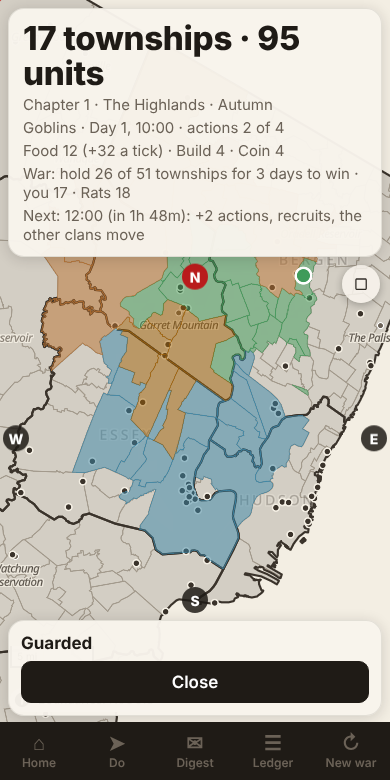
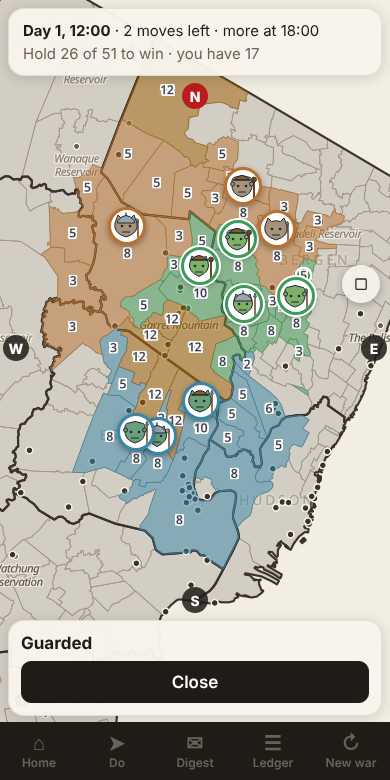
Redesign (18): from a ledger to a cast; R1 patch: faces on the map, numbers off the names, short header, less text, a rival to face in the first minute
Claude-Session: https://claude.ai/code/session_01VbHYcpJJCeFC23cU6EtBJy

diff --git a/js/goblin/ui/goblin.js b/js/goblin/ui/goblin.js
@@ -46,6 +46,7 @@ export function initGoblin(ctx) {
   let G = null;            // { board, content } once loaded
   let save = null;         // { v, world, lastReal, events, seenTick }
   let sel = null;          // the township you have picked to send units from
+  let pins = [];           // portrait markers for captains on the map
   let charge = null;       // a quiz charge earned and not yet used: { front, beat }
   let timer = 0, bound = false, layersReady = false, mode = 'idle', pendingHome = null;
 
@@ -97,12 +98,14 @@ export function initGoblin(ctx) {
     map.addSource('gobconvoy', { type: 'geojson', data: { type: 'FeatureCollection', features: [] } });
     map.addLayer({ id: 'gob-convoy', type: 'circle', source: 'gobconvoy', layout: { visibility: 'none' }, paint: { 'circle-radius': 7, 'circle-color': ['match', ['get', 'clan'], 'goblins', COLOUR[1], 'rats', COLOUR[2], 'toads', COLOUR[3], 'gnomes', COLOUR[4], '#555'], 'circle-stroke-width': 2.5, 'circle-stroke-color': '#ffffff' } });
     map.addSource('gobforce', { type: 'geojson', data: { type: 'FeatureCollection', features: [] } });
-    map.addLayer({ id: 'gob-force', type: 'symbol', source: 'gobforce', layout: { visibility: 'none', 'text-field': ['format', ['get', 'n'], { 'font-scale': 0.62 }, '\n', {}, ['get', 'f'], { 'font-scale': 1.15 }], 'text-font': ['Noto Sans Medium'], 'text-size': 13, 'text-line-height': 1.0, 'text-allow-overlap': true, 'text-ignore-placement': true },
-      paint: { 'text-color': '#111827', 'text-halo-color': '#ffffff', 'text-halo-width': 2 } });
+    map.addLayer({ id: 'gob-name', type: 'symbol', source: 'gobforce', minzoom: 10.4, layout: { visibility: 'none', 'text-field': ['get', 'n'], 'text-font': ['Noto Sans Medium'], 'text-size': 11, 'text-offset': [0, -1.5], 'text-allow-overlap': false, 'text-optional': true },
+      paint: { 'text-color': '#374151', 'text-halo-color': '#ffffff', 'text-halo-width': 1.6 } });
+    map.addLayer({ id: 'gob-force', type: 'symbol', source: 'gobforce', minzoom: 9.2, layout: { visibility: 'none', 'text-field': ['get', 'f'], 'text-font': ['Noto Sans Medium'], 'text-size': ['interpolate', ['linear'], ['zoom'], 9.2, 12, 12, 18], 'text-allow-overlap': true, 'text-ignore-placement': true },
+      paint: { 'text-color': '#111827', 'text-halo-color': '#ffffff', 'text-halo-width': 2.4 } });
   }
   const hiddenLabels = new Map();
   const showLayers = (on) => {
-    for (const id of ['gob-fill', 'gob-fog', 'gob-target', 'gob-line', 'gob-force', 'gob-convoy']) if (map.getLayer(id)) map.setLayoutProperty(id, 'visibility', on ? 'visible' : 'none');
+    for (const id of ['gob-fill', 'gob-fog', 'gob-target', 'gob-line', 'gob-force', 'gob-name', 'gob-convoy']) if (map.getLayer(id)) map.setLayoutProperty(id, 'visibility', on ? 'visible' : 'none');
     // the township names move into the force labels, so the map's own names step aside while the war is on
     for (const id of MUNI_LABEL_IDS) {
       if (!map.getLayer(id)) continue;
@@ -124,10 +127,21 @@ export function initGoblin(ctx) {
       const L = lv.get(id) || 'unknown';
       const gt = sel && nbs.has(id) ? (T.owner === ME ? 2 : T.owner ? 1 : 0) : 0;
       map.setFeatureState({ source: 'munis', id: m.id }, { gc: L === 'unknown' ? 0 : NO[T.owner] || 0, gf: L === 'unknown' ? 1 : 0, gs: sel === id ? 1 : 0, gt, gr: raidTargets.has(id) ? 1 : 0 });
-      const label = L === 'unknown' ? { n: '', f: '' } : L === 'rumoured' ? { n: m.n, f: '?' } : L === 'familiar' ? { n: (T.captain ? '★ ' : '') + m.n, f: forceWord(T.force, fw()) } : { n: (T.captain ? '★ ' : '') + m.n, f: String(T.force) };
+      const label = L === 'unknown' ? { n: '', f: '' } : L === 'rumoured' ? { n: m.n, f: '?' } : L === 'familiar' ? { n: m.n, f: forceWord(T.force, fw()) } : { n: m.n, f: String(T.force) };
       feats.push({ type: 'Feature', properties: label, geometry: { type: 'Point', coordinates: m.pt } });
     }
     map.getSource('gobforce').setData({ type: 'FeatureCollection', features: feats });
+    // faces on the map (redesign R1): every captain you can see is a portrait pin on their township; tapping it opens the township
+    for (const mk of pins) mk.remove(); pins = [];
+    for (const id of Object.keys(world.towns)) {
+      const T = world.towns[id], c = T.captain && world.chars[T.captain], m = muniOf(id);
+      if (!c || !m || (c.clan !== ME && rank(lv.get(id) || 'unknown') < rank('familiar'))) continue;
+      const el = document.createElement('button');
+      el.className = 'gobpin' + (c.clan === ME ? ' mine' : ''); el.style.borderColor = COLOUR[NO[c.clan]] || '#555'; el.setAttribute('aria-label', c.name);
+      el.innerHTML = portrait(c, world.clans[c.clan].kind, null, 30);
+      el.addEventListener('click', (e) => { e.stopPropagation(); if (mode === 'play') { sel = null; paint(); townCard(id); } });
+      pins.push(new maplibregl.Marker({ element: el, anchor: 'bottom', offset: [0, -8] }).setLngLat(m.pt).addTo(map));
+    }
     // convoys: moved only when the tick changes, because their place is worked out from it (D114); a rival's is seen only through a township you know a little
     const dots = [];
     for (const c of (world.convoys || [])) {
@@ -191,12 +205,10 @@ export function initGoblin(ctx) {
     const units = mine.reduce((n, t) => n + t.force, 0);
     const fr = openFronts(world, ME).length;
     const nx = nextMajor();
-    ctx.hud(`<div class="town">${mine.length} townships · ${units} units${fr ? ` · ${fr} front${fr === 1 ? '' : 's'}` : ''}</div>
-      <div class="meta">${regionLine()}</div>
-      <div class="meta">Goblins · ${clock()} · actions ${world.clans[ME].ap} of ${K6.apCap}</div>
-      ${resLine()}
-      <div class="meta">${warLine()}</div>
-      <div class="meta">${nx ? `Next: ${nx.hour} (in ${nx.left}): +${K6.apPerMajor} actions, recruits, the other clans move` : ''}</div>`);
+    const p = progress(world, ME), me = world.clans[ME];
+    const short = ecoActive(me) && me.short > 0 ? '<div class="meta warnline">Short of Food.</div>' : '';
+    ctx.hud(`<div class="gobhud"><b>${clock()}</b> · ${me.ap} move${me.ap === 1 ? '' : 's'} left${nx ? ` · more at ${nx.hour}` : ''}</div>
+      <div class="meta">${world.war && world.war.over ? warLine() : `Hold ${p.need} of ${p.total} to win · you have ${p.held}${p.hoursLeft != null ? ` · holding: ${Math.ceil(p.hoursLeft / 24)}d to go` : ''}`}${fr ? ` · ${fr} front${fr === 1 ? '' : 's'} open` : ''}</div>${short}`);
   }
   const panel = (html) => ctx.sheet(html);
   const closeBtn = '<button class="primary" data-g="close">Close</button>';
@@ -282,13 +294,29 @@ export function initGoblin(ctx) {
       <div class="gobrow"><button class="primary" data-g="send" data-from="${esc(from)}" data-to="${esc(to)}">${front ? 'Open the front' : attack ? 'Attack' : 'Move'}${attack ? ' <span class="fine">1 action</span>' : ''}</button><button data-g="close">Cancel</button></div></div>`);
     const r = $('#gobRange'); r.addEventListener('input', () => { $('#gobN').textContent = r.value; const c = $('#gobCost'); if (c && attack && ecoActive(w().clans[ME])) c.textContent = `costs ${marchCost(+r.value)} Food`; });
   }
+  /** The nearest rival captain you can see next to one of your townships: someone to confront (redesign R1: a face within the first minute). */
+  function callout() {
+    const world = w(), lv = fog(); let best = null;
+    if (openFronts(world, ME).length || world.clans[ME].ap < 1) return '';
+    for (const id of Object.keys(world.towns)) {
+      const F = world.towns[id]; if (F.owner !== ME || F.force < 4) continue;
+      for (const n of G.board.neighbours(id)) {
+        const T = world.towns[n], c = T && T.captain && world.chars[T.captain];
+        if (!c || T.owner === ME || untouchable(world, G.board, n) || rank(lv.get(n) || 'unknown') < rank('familiar')) continue;
+        const ratio = (F.force - 1) / Math.max(1, T.force);
+        if (!best || ratio > best.ratio) best = { from: id, to: n, c, ratio };
+      }
+    }
+    if (!best) return '';
+    return `<div class="capline">${portrait(best.c, world.clans[best.c.clan].kind)}<p><b>${esc(best.c.name)}</b> of the ${cap(best.c.clan)} holds ${esc(G.board.town(best.to).name)}, right on your border.</p></div><button class="primary" data-g="go" data-from="${esc(best.from)}" data-to="${esc(best.to)}">Go and face ${esc(best.c.name.split(' ')[0])}</button>`;
+  }
   function resultPanel(events) {
     const en = entriesOf(events, ctxFor());
     const sk = events.find((e) => e.type === 'skirmish_result' && e.rounds);
     const diceRows = sk ? `<div class="gobdice">${sk.rounds.map((r, i) => `<div><span class="fine">Round ${i + 1}</span> ${dice(r.a)} <span class="fine">against</span> ${dice(r.d, 'them')} <span class="fine">${r.dLost ? `${r.dLost} of theirs fell` : ''}${r.dLost && r.aLost ? ', ' : ''}${r.aLost ? `${r.aLost} of yours` : ''}</span></div>`).join('')}</div>` : '';
     const rej = events.find((e) => e.type === 'order_rejected');
     panel(`<div class="gob"><h3>${rej ? 'That did not work' : sk ? (sk.won ? 'Taken' : 'Thrown back') : 'Done'}</h3>
-      ${rej ? `<p>${esc(rej.reason)}</p>` : en.map((e) => `<p>${esc(e.text)}</p>`).join('') || '<p>Done.</p>'}${diceRows}${closeBtn}</div>`);
+      ${rej ? `<p>${esc(rej.reason)}</p>` : en.map((e) => `<p>${esc(e.text)}</p>`).join('') || '<p>Done.</p>'}${diceRows}${rej ? '' : callout()}${closeBtn}</div>`);
   }
   const unseen = () => { const n = Math.max(0, (save.total || 0) - (save.seenTotal || 0)); return n ? save.events.slice(-n) : []; };
   /** The aftermath of your own captains (D107, D108): who was hurt, fled or taken since you last looked, with a portrait showing it. */
@@ -308,13 +336,15 @@ export function initGoblin(ctx) {
     return out.slice(0, 2).join('');
   }
   function digestPanel(note) {
-    const seenEvents = unseen(), d = digestOf(seenEvents, ctxFor());
+    const seenEvents = unseen();
+    const mineOnly = seenEvents.filter((e) => [e.clan, e.by, e.against, e.winner].includes(ME) || e.type === 'war_over');   // what other clans do to each other is not news
+    const d = digestOf(mineOnly, { ...ctxFor(), max: 3 });
     save.seenTotal = save.total || 0; persist();
     panel(`<div class="gob">${messengerBlock()}<h3>${esc(d.headline)}</h3>
       ${aftermath(seenEvents)}
       ${d.incoming.map((i) => `<p class="warn">${esc(i.text)}</p>`).join('')}
       ${d.lines.map((l) => `<p><span class="fine">${esc(l.when)}</span> ${esc(l.text)}</p>`).join('')}
-      ${d.hidden ? `<p class="fine">${d.hidden} more in the Ledger.</p>` : ''}
+
       ${note ? `<p class="fine">${esc(note)}</p>` : ''}
       <div class="gobrow"><button data-g="ledger">Everything</button><button class="primary" data-g="close">Close</button></div></div>`);
   }
@@ -584,7 +614,8 @@ export function initGoblin(ctx) {
     panel(`<div class="gob">${messengerBlock()}<h3>What can I do?</h3>
       ${kit || se ? `<p class="fine">${kit ? esc(kit.ruleText) : ''} ${se ? esc(SEASONS[se].name + ': ' + SEASONS[se].text) : ''}</p>` : ''}
       ${w().clans.dwarves ? '<p class="fine">The dwarves hold the rock towns. They cannot be conquered, they never strike first, and anyone who pushes at the rock is answered. That is a rule of this world, not a favour to anyone.</p>' : ''}
-      <p class="fine">There is no end-turn button. You have <b>${ap()}</b> action${ap() === 1 ? '' : 's'} (attacks, fronts, scouting, digging in and taunts cost one; moving is free). The world moves by itself on the hour: at 09:00, 12:00 and 18:00 you get ${K6.apPerMajor} more (up to ${K6.apCap}), everyone gets recruits and the other clans act${nx ? `. Next: ${nx.hour}, in ${nx.left}` : ''}.</p>
+<p class="fine">Every move costs 1. You have <b>${ap()}</b>; ${K6.apPerMajor} more arrive at 09:00, 12:00 and 18:00${nx ? ` (next ${nx.hour}, in ${nx.left})` : ''}. Moving units between your own townships is free.</p>
+      ${resLine()}
       ${list.length ? list.map((o) => `<button ${o.data}><b>${esc(o.label)}</b><br><span class="fine">${esc(o.sub)}</span></button>`).join('') : '<p>Nothing worth doing right now. Your townships next to enemies are too thin to attack. Wait for recruits.</p>'}
       ${prisoners()}
       <button data-g="gentle">Gentle mode: ${w().clans[ME].gentle ? 'on' : 'off'} <span class="fine">on means no unwarned convoy losses</span></button>
@@ -717,6 +748,7 @@ export function initGoblin(ctx) {
     },
     leave() {
       clearInterval(timer); document.body.classList.remove('goblin-on');
+      for (const mk of pins) mk.remove(); pins = [];
       clearPaint(); showLayers(false); ctx.hud(''); panel(''); sel = null;
     },
   };

diff --git a/css/app.css b/css/app.css
@@ -3486,3 +3486,10 @@ body[data-mode='goblin'] #gobbar {
 .dice.them { color: #9a3412; }
 @keyframes tumble { 0% { transform: translateY(-14px) rotate(-220deg); opacity: 0; } 70% { transform: translateY(2px) rotate(15deg); opacity: 1; } 100% { transform: none; opacity: 1; } }
 @media (prefers-reduced-motion: reduce) { .dice i { animation: none; } }
+
+/* ---- redesign R1: faces on the map, a short header ---- */
+.gobpin { width: 38px; height: 38px; padding: 0; border-radius: 50%; border: 3px solid #555; background: #fff; overflow: hidden; display: grid; place-items: center; box-shadow: 0 2px 6px rgba(0, 0, 0, 0.35); cursor: pointer; }
+.gobpin .portrait { background: none; border-radius: 0; }
+.gobpin.mine { box-shadow: 0 0 0 2px #fff, 0 2px 6px rgba(0, 0, 0, 0.35); }
+body:not([data-mode='goblin']) .gobpin { display: none; }
+.gobhud { font-size: 15px; }

diff --git a/sw.js b/sw.js
@@ -2,7 +2,7 @@
 // cached, so "which town am I in" keeps working with no signal. Online, the
 // app's own files come from the network first (the latest version every time). Background map
 // tiles are only cached opportunistically.
-const VERSION = 'njtf-v246';
+const VERSION = 'njtf-v247';
 const SHELL = [
   './',
   'index.html',

diff --git a/docs/goblins/18-redesign.md b/docs/goblins/18-redesign.md
@@ -1,0 +1,113 @@
+# 18. Redesign: from a ledger to a cast
+
+Written 2026-11-15 after the user played the finished plan and called it "a very boring game ... I will likely never use it in this state." This document says why, and what changes. It supersedes the *order and emphasis* of `13-finish-plan.md`; the simulation built under that plan stays.
+
+## 1. The verdict, in the user's words
+
+Could not read the numbers (stacked on township names). Hard to scroll. Could not tell how many actions there were or what they did; "I ended up just spamming every option." No idea what the currency is or when it comes in. Never got to confront a captain ("that should come in about 3 minutes"). Too much text, "a statistical land shift ... the rats took this town." "I have no interest in what other factions are doing. I have no interest in what my faction is doing. I don't even know my guys. I don't know why they're there." None of the "high chaos" of a Tecmo game: "it's all just numbers being rolled quietly."
+
+## 2. Diagnosis: what the build lost
+
+Paper test 02 "felt great". It had five things. The build kept the rules of all five and the *experience* of none:
+
+| What the paper test had | What the build did with it |
+|---|---|
+| **One enemy with a face.** Captain V, greedy and vain, sitting in Totowa | Captains are a ★ and a name on a card you must go looking for. The first one is met by accident, if ever |
+| **A gamble the player authored** ("cross the river, as a gamble") | Eleven verbs offered at once, each a button with a cost. Nothing is a gamble because nothing is understood |
+| **A narrator.** I told it as a scene, a line at a time | A log of templated sentences about every clan's every move |
+| **Your own guy mattered** (Moss probes at night; Flint leads the charge) | Your captains are never introduced. They lead automatically. You never choose one |
+| **An ending you could feel** (V captured; Haledon left empty) | A tally paragraph, then back to a map of numbers |
+
+Against our own pillars: the two-minute door (9) opens onto a dashboard; "detail below the surface" (10) is inverted, with every system on the surface on day one; "chance is theatre" (12) became arithmetic shown politely. And D153, which this project adopted from the FTL and Into the Breach designers, said exactly what went wrong: *each piece must be fun alone before the next is added; beware a strategy layer whose parts only come together late.* Nine systems were added in a day and none was played before the next. That was the mistake, and it was a process mistake before it was a design one.
+
+**The structural error:** the build made the *map* the game and characters a feature of it. The paper test was the reverse: the *confrontation* was the game and the map was where it happened. Tecmo's energy comes from the same place: you pick a play, then you watch a short, loud scene. The map of the league is a menu.
+
+## 3. The new core: you run a crew, and the game is their confrontations
+
+**One sentence:** you are the boss of a small crew of named goblins, the rival captains are a small cast who remember you, and the game is a string of short, loud scenes between them, staged on the real map.
+
+Three rules follow, and everything else bends to them:
+
+1. **Your captains are your actions.** No action points. Each of your captains can do one thing per window (the windows are the 09:00, 12:00 and 18:00 ticks we already have). "What can I do?" becomes "who do I send?", which also answers "I don't even know my guys": you learn them because they are how you act.
+2. **Every scene has a face on each side.** A fight against a nameless garrison is a three-second scuffle shown on the map. Anything longer is your captain against theirs, in a full-screen scene.
+3. **The news is about people.** At most three moments on opening, each about someone with a face: yours, or a rival who has a history with you. Land changing hands between two rival clans is never news.
+
+## 4. The first three minutes, beat by beat
+
+| Time | What happens | What is on screen |
+|---|---|---|
+| 0:00 | The messenger bursts in: a rival captain is on your border, mocking you | The messenger's face, one line, the rival's portrait and name. One button: "Who do we send?" |
+| 0:15 | **Meet your crew.** Three goblins, each a portrait, a name, one trait word and one line on why they follow you | Three cards. Tap one |
+| 0:35 | The scene opens: your captain on the left, theirs on the right, the township's name and how it lies (from map data) in a single line | Two portraits, a four-step standing bar, three big buttons |
+| 0:40 to 2:20 | Three or four beats. Each press: the dice tumble, the portraits react (flinch, grin, shake), a bark of eight words or fewer, the bar moves. On a middling roll you learn one thing about the rival, shown as a word stamped on their portrait | Nothing else. No resources, no map |
+| 2:20 | The decision: a burst of dice, the unit counts drop in front of you, the screen shakes on each loss | Dice, two numbers, shake |
+| 2:50 | The ending is about the rival: captured (their face behind bars, yours grinning), or fled with a grudge ("he'll be back"), or you were thrown out and *your* captain comes home with a scar you can see | One portrait moment, one line |
+| 3:00 | The map, briefly: one township changed colour. The messenger: "Come back at noon." | The map with faces on it, one button |
+
+The first confrontation is at 0:35, not "about three minutes". Everything in that table already exists in the simulation (fronts, traits, discovery, injuries, closeup, portraits, the messenger). What does not exist is the scene.
+
+## 5. What is cut or hidden, and how each earns its way back
+
+Nothing is deleted from the simulation. It is switched off or made automatic on screen, and returns only after the user has played the stage before it and asked for more.
+
+| System | First experience | Earns its way back when |
+|---|---|---|
+| Action points | **Gone.** Replaced by "each captain acts once a window" | Never, unless the crew rule fails in play |
+| Food, Build, Coin | **Hidden and automatic.** The clan feeds itself; nothing is spent by hand | The user says the war lacks a reason to choose between two things. Then as *one* number ("Supplies") before three |
+| Convoys, ambushes, guard, raid | Off | A rival character can be the one who robs you: then it is a scene with a face, not a system |
+| Foothold run, parley, duel, insult, taunt, scout as separate buttons | Folded into the scene: they are *moves inside a confrontation*, not menu items on a township card | Individually, when a scene needs a new move |
+| Fog of war and the quiz charge | Fog stays as a visual (grey where you have not learned the map); nothing explains it on day one. The charge is off | Week two: "you do not know this town; learn it and your captain gets a good look" is one sentence, shown when it first matters |
+| Seasons, region rules, clan-kind rules | Running, never mentioned | Each gets one line the first time it changes a scene |
+| Dwarves | Off in the first chapter | As a character: a dwarf with a face who turns up |
+| The Ledger | Kept as a log, off the main bar | It is the record, not the news |
+| The war goal | Kept, said in one line once | Already earned |
+
+## 6. Energy: what a phone web page can do cheaply
+
+In order of impact per hour of work. None needs art files or a render loop.
+
+1. **A full-screen scene** instead of a bottom sheet. The single biggest change: the game stops looking like a form.
+2. **Portraits that react**: the existing code-drawn faces swap expression on each beat (steady, grim, shaken exist already), and shake or lurch with a CSS animation.
+3. **Screen shake and flash** on losses and wins (a 200 ms CSS transform on the scene).
+4. **Dice that land hard**: larger, tumbling in sequence, the winning die growing, the losing one dropping away.
+5. **Numbers that pop**: unit counts tick down visibly, "-2" floats up and fades.
+6. **Sound from the Web Audio API**: synthesised thumps, a rising blip for a win, a low buzz for a loss. No files. A mute switch. (iOS needs a first tap to start audio: the "Who do we send?" tap is it.)
+7. **The messenger speaks**: the app already has a voice picker; barks of a few words through text-to-speech, off by default.
+8. **Vibration** where the phone allows it (Android; iOS web does not).
+9. **Text in bursts**: eight words or fewer per beat, one line at a time, tap to skip.
+
+## 7. The map: a stage, not a spreadsheet
+
+- **Faces on the map.** Each captain is a small portrait pin on their township: yours ringed in your colour, rivals in theirs. The map shows *who is where*; that is what the player needs.
+- **Numbers step back.** Force is a small badge shown only when zoomed in, or on tap. Names and numbers never share a line.
+- **One thing asks for you.** A single pulsing marker on the township where something wants a decision. Tapping it opens the scene.
+- **Movement is constrained.** The view fits your theatre; a "next" button hops between the places that matter. Free panning stays, but the player should never *need* to scroll.
+- **The top of the screen is one line**: the day and time, and when the next window opens. Everything else is behind a tap.
+
+## 8. The news: three moments about people
+
+On opening: at most three cards, each a portrait and one sentence, in this priority: something done *to* one of your captains; something a rival *who has met you* did; a window opening on a confrontation. Examples of shape (the words are the user's to write): "[Rival], who you threw out of Totowa, has taken it back." "[Your captain] came home with a limp." Events between two rival clans, recruits, digging in, convoys, seasons: never news. They stay in the Ledger.
+
+Rivals need memory for this to work, and they have it: grudges, bonds, confidence, injuries and dynasties are all in the simulation. A **nemesis** is simply the rival captain with the most history with you; the news leads with them.
+
+## 9. The plan, in stages that each end with the user playing
+
+| Stage | What | The check |
+|---|---|---|
+| **R0** | **Paper-test the first three minutes** in chat, as we did test 02, with the crew rule and a nemesis. Ten minutes | The user says it has the feel, or says what is missing. Nothing in R2 onward is built before this |
+| **R1** (patched now, see below) | Stop the bleeding on the current screen: faces on the map, numbers off the names, a one-line header, three news items about you, and a confrontation offered in the first minute | The user opens it and sees characters before numbers |
+| **R2** | **The scene**: full screen, two portraits, the standing bar, big moves, dice that land, shake, sound. Built over the existing front rules. The first three minutes of section 4 | The user plays one confrontation and wants a second |
+| **R3** | **The crew**: three named captains at the start with a line each; captains as actions (one per window); you pick who goes; action points removed | The user can name their captains without looking |
+| **R4** | **Nemeses and the news**: rivals with history lead the opening; three moments; the Ledger off the bar | The user cares what one rival does |
+| **R5** | **The map as a stage**: the pulsing "wants you" marker, "next" hopping, constrained view | The user never has to scroll to find what to do |
+| **R6** | Bring systems back **one at a time**, each only after the user asks for more: Supplies, then fog explained, then a robbing rival, then the dwarf | Each is played alone before the next |
+
+The process rule this time, without exception: **one stage, then the user plays it, then the next.** The last plan's gates were written down and then walked past nine times in a row.
+
+## 10. What stays true
+
+The pure simulation and its tests. Real New Jersey geography, computed and never recalled. No percentages. The user writes the comedy; everything else is a flagged placeholder. A loss is framed. The quiz is a help and never a gate.
+
+## 11. What was patched alongside this document (R1)
+
+See the commit that carries this file. In short: captain portrait pins on the map; force as a separate badge that never shares a line with a name, and names only when zoomed in; the header cut to two lines; the news cut to three items that involve you; the first-move result leads straight to a named rival and a confrontation; and the action economy explained in one line where it is spent. These are patches on the old screen, not the redesign. The redesign is R2 onward.

diff --git a/docs/goblins/01-decisions.md b/docs/goblins/01-decisions.md
@@ -353,6 +353,7 @@ Written while turning the log into a buildable spec (04). Each fills a gap or re
 | D221 | PROPOSED 2026-11-15 | **Regions, chapters, clan kinds and seasons as built (F5).** Ten region kits by county (data/goblin-regions.json), each with one rule worked out from computed borders and population (roads, rivers, hills, farm, coast). A won war is a chapter: your clan, stores and captains travel to the nearest unplayed region with two new rivals drawn from rats, toads and gnomes; a lost one repeats the region. Each kind of clan has one rule (goblins dig in at 2, rats breed fast and eat badly, toads ignore rivers, gnomes build cheaply). Seasons come from the real calendar: winter units eat a quarter more, spring rivers cost the attacker 2, summer one more recruit a tick, autumn Food towns yield 1 more | docs/goblins/06-content-bible.md. No fact is shipped until verified (D195); you are always the goblins for now; the chapter's final challenge (P20) and levers are not built |
 | D222 | PROPOSED 2026-11-15 | **The dwarves and the shared budget as built (F6; P21, P22).** Rock towns are the townships under the app's own named mountains and ridges; the dwarves hold them dug in with 12, cannot be conquered, never strike first, and are goaded when a rival pushes at the rock (they then answer that rival for two days). A player may seek them out for friends (miners each tick). While a player is Heated or Overwhelmed the Director, once in three days, steers one rival at a rock town after a "hammering" tell: timing only, never place, and said openly as a rule of the world (answering H49). The day's one peak is shared by raids, ambushes and that steering. The dwarves' townships are not part of the map a war is won on | docs/goblins/05-director.md. No mining history is claimed (needs verified facts, D195) |
 | D223 | PROPOSED 2026-11-15 | **The look as built (F7).** Reasons for a roll are a few words, never plus-and-minus arithmetic (H45). Dice are shown as glyph dice that tumble once. Captains have code-drawn portraits (3 heads, 3 hats, 3 weapons, 5 injury layers, 3 expressions) on their cards, in fronts and in the digest's aftermath of your own captains (D107, D108). The performance budget (D197) is measured and tested: hourly tick median 0.2 ms, 141 KB gzipped before art | docs/goblins/07-screens.md, 08-art.md, 10-tech.md. The closeup animation for your own captains is the aftermath portrait only |
+| D224 | DECIDED 2026-11-15 (the user's verdict after playing: "a very boring game ... I will likely never use it in this state"; "you are allowed to patch the game") | **The redesign.** The game is a crew of named captains and their confrontations with a small cast of rivals, staged on the map; not a map of numbers with characters attached. Captains are the actions (one each per window), every long fight has a face on each side, the news is at most three moments about people, and every other system is hidden until the user asks for more, one at a time. One stage, then the user plays, then the next, without exception | docs/goblins/18-redesign.md. R1 patched the same day: portrait pins on the map, force off the names, a two-line header, three news items about you, a rival to face offered after the first move |
 | D216b | DECIDED 2026-11-15 ("yes go") | **The peace between the rivals is on** (`aiPeaceShare` 0.4): while a human holds more than 40 percent of the theatre the AI clans stop fighting each other, and the Ledger says so ("the rival clans have stopped fighting each other"). Measured cost: the biggest stack against the median garrison rises from 3.8 to 5.2 times (target under 5) | The user's yes to P2; their "yes" to P1 is read as keeping the targets as written |
 
 ## Facts to verify before use

diff --git a/docs/goblins/README.md b/docs/goblins/README.md
@@ -24,6 +24,7 @@ The strategy layer is optional. Turned off, the app is exactly the quiz, Drive a
 | 12 | [Gap list](12-gap-list.md): the game as built against the design, with what is missing, what each piece needs from the user, and the order to finish | written 2026-11-15 |
 | 13 | [The plan to finish the game](13-finish-plan.md): what finished means, ten stages with checks and gates, the decisions each needs, what only the user can write and when, tuning targets | written 2026-11-15; the build follows this |
 | 06 | [Content bible](06-content-bible.md) (started): the ten region kits, how each rule was computed, and the fact pipeline (no fact shipped yet) | started 2026-11-15 |
+| 18 | [Redesign: from a ledger to a cast](18-redesign.md): why the finished plan was boring, the new core (a crew, confrontations, news about people), what is cut, and stages R0 to R6 | written 2026-11-15; **the build follows this now** |
 | 17 | [The three-week play](17-play-guide.md): what to do, what to note, the Solo 1.0 checklist as it stands | ready 2026-11-15 |
 | 05 | [The Director and the dwarves](05-director.md): the pressure words, rhythm and shared peak as built, the dwarf rules, the hidden hand in timing only | written 2026-11-15 |
 | 07 | [Screens and flows](07-screens.md): the game as built | written 2026-11-15 |

diff --git a/docs/goblins/13-finish-plan.md b/docs/goblins/13-finish-plan.md
@@ -285,6 +285,9 @@ Nothing here blocks building: every item has a flagged placeholder until it arri
 
 ## 9. Status
 
+**2026-11-15: the user played the result of F0 to F7 and found it very boring.** The order and emphasis of this plan are superseded by `18-redesign.md` (stages R0 to R6). The simulation built here stays; F8 and F9 are on hold.
+
+
 | Stage | Status |
 |---|---|
 | F0 | built 2026-11-15; gate pending (the user plays three days). Rival recruit split adopted (0.5), guided first move (four taps from the home page), targets script and tuning plan written. 5 of 9 targets pass; Bold's win rate, the passive player's losses and Careful's lost fronts still fail (see 11-tuning-plan.md) |
